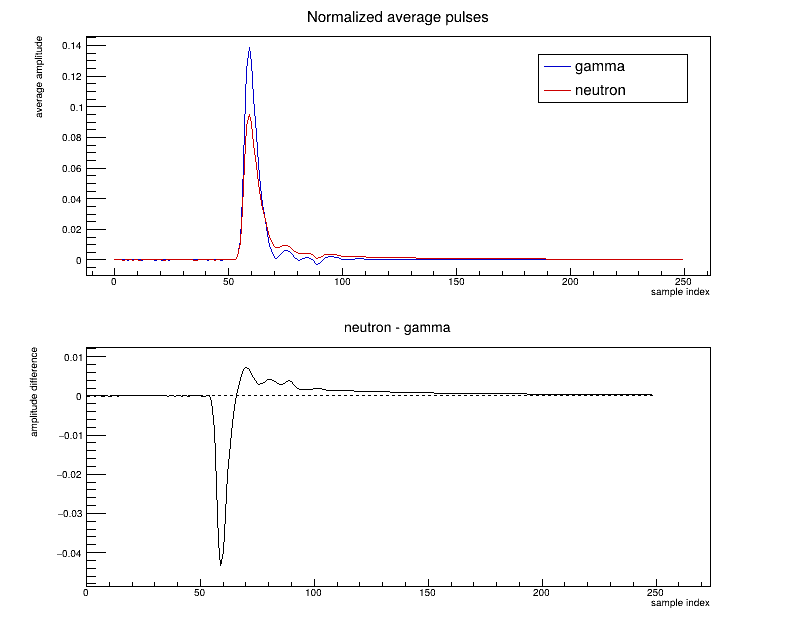
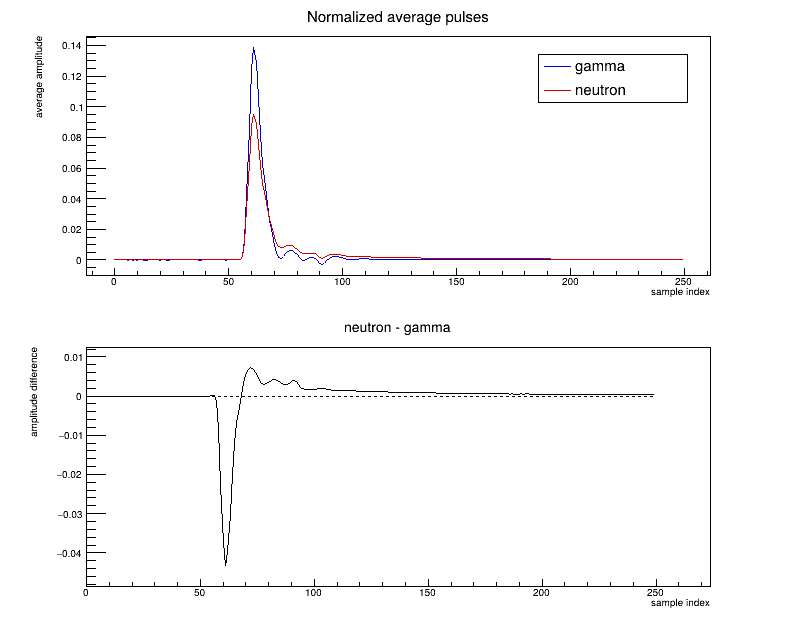
Derive PSD alignment target from reference waveform

diff --git a/chapt5/coursework5.1/5.1_PSD.html b/chapt5/coursework5.1/5.1_PSD.html
@@ -7868,7 +7868,7 @@ document.addEventListener("DOMContentLoaded", function () {
 <p>$$b=\frac{1}{N_b}\sum_{i=0}^{N_b-1}y_i,\qquad y_i'=y_i-b.$$</p>
 <p>同一类脉冲在记录窗口中的触发位置会有少量变化。如果直接使用固定积分门，门的边界会落在脉冲的不同位置，使 $Q_{\rm fast}$ 和 PSD 产生额外展宽。因此应在积分前把波形对齐。</p>
 <p>本数据中的脉冲峰顶尖锐，最大采样点能够稳定地标记脉冲位置，因此这里用 maximum 所在的采样点 $k_{\max}$ 对齐。若峰顶较宽或峰顶噪声明显，maximum 的采样点容易跳动，这种方法便不再可靠；实际分析中应改用前沿的 fast filter 或 constant-fraction 定时。简单的固定阈值 leading-edge 还会随脉冲幅度产生 time walk。</p>
-<p>选择共同位置 $k_0$，并令 $\Delta=k_0-k_{\max}$。对齐后的数组满足</p>
+<p>取第一条波形的 maximum 位置作为参考位置 $k_0$。对其余波形令 $\Delta=k_0-k_{\max}$，对齐后的数组满足</p>
 <p>$$\widetilde y_j=y'_{j-\Delta}.$$</p>
 <p>也就是说，写入输出位置 $j$ 时，应读取原数组位置 $j-\Delta$。时间平移只改变采样值所在的位置；移出记录窗口的点丢弃，空出的点补零。</p>
 <p>对齐后选取 $t_0&lt;t_1&lt;t_2$，定义</p>
@@ -7919,7 +7919,10 @@ document.addEventListener("DOMContentLoaded", function () {
     <span class="n">wave</span><span class="o">.</span><span class="n">GetEntry</span><span class="p">(</span><span class="n">index</span><span class="p">)</span>
     <span class="k">return</span> <span class="p">[</span><span class="nb">float</span><span class="p">(</span><span class="n">wave</span><span class="o">.</span><span class="n">adc</span><span class="p">[</span><span class="n">i</span><span class="p">])</span> <span class="k">for</span> <span class="n">i</span> <span class="ow">in</span> <span class="nb">range</span><span class="p">(</span><span class="n">sample_count</span><span class="p">)]</span>
 
-<span class="nb">print</span><span class="p">(</span><span class="sa">f</span><span class="s2">"</span><span class="si">{</span><span class="n">pulse_count</span><span class="si">}</span><span class="s2"> waveforms, </span><span class="si">{</span><span class="n">sample_count</span><span class="si">}</span><span class="s2"> samples per waveform"</span><span class="p">)</span>
+<span class="n">reference_pulse</span> <span class="o">=</span> <span class="n">read_pulse</span><span class="p">(</span><span class="mi">0</span><span class="p">)</span>
+<span class="n">alignment_target</span> <span class="o">=</span> <span class="nb">max</span><span class="p">(</span><span class="nb">range</span><span class="p">(</span><span class="n">sample_count</span><span class="p">),</span> <span class="n">key</span><span class="o">=</span><span class="n">reference_pulse</span><span class="o">.</span><span class="fm">__getitem__</span><span class="p">)</span>
+<span class="nb">print</span><span class="p">(</span><span class="sa">f</span><span class="s2">"</span><span class="si">{</span><span class="n">pulse_count</span><span class="si">}</span><span class="s2"> waveforms, </span><span class="si">{</span><span class="n">sample_count</span><span class="si">}</span><span class="s2"> samples per waveform; "</span>
+      <span class="sa">f</span><span class="s2">"reference maximum = </span><span class="si">{</span><span class="n">alignment_target</span><span class="si">}</span><span class="s2">"</span><span class="p">)</span>
 </pre></div>
 </div>
 </div>
@@ -7974,8 +7977,13 @@ document.addEventListener("DOMContentLoaded", function () {
 <span class="w">    </span><span class="n">wave</span><span class="o">-&gt;</span><span class="n">GetEntry</span><span class="p">(</span><span class="n">index</span><span class="p">);</span>
 <span class="w">    </span><span class="k">return</span><span class="w"> </span><span class="n">std</span><span class="o">::</span><span class="n">vector</span><span class="o">&lt;</span><span class="kt">double</span><span class="o">&gt;</span><span class="p">(</span><span class="n">adc</span><span class="p">,</span><span class="w"> </span><span class="n">adc</span><span class="w"> </span><span class="o">+</span><span class="w"> </span><span class="n">sampleCount</span><span class="p">);</span>
 <span class="p">};</span>
+<span class="k">auto</span><span class="w"> </span><span class="n">referencePulse</span><span class="w"> </span><span class="o">=</span><span class="w"> </span><span class="n">readPulse</span><span class="p">(</span><span class="mi">0</span><span class="p">);</span>
+<span class="k">const</span><span class="w"> </span><span class="kt">int</span><span class="w"> </span><span class="n">alignmentTarget</span><span class="w"> </span><span class="o">=</span><span class="w"> </span><span class="n">std</span><span class="o">::</span><span class="n">distance</span><span class="p">(</span>
+<span class="w">    </span><span class="n">referencePulse</span><span class="p">.</span><span class="n">begin</span><span class="p">(),</span>
+<span class="w">    </span><span class="n">std</span><span class="o">::</span><span class="n">max_element</span><span class="p">(</span><span class="n">referencePulse</span><span class="p">.</span><span class="n">begin</span><span class="p">(),</span><span class="w"> </span><span class="n">referencePulse</span><span class="p">.</span><span class="n">end</span><span class="p">()));</span>
 <span class="n">std</span><span class="o">::</span><span class="n">cout</span><span class="w"> </span><span class="o">&lt;&lt;</span><span class="w"> </span><span class="n">pulseCount</span><span class="w"> </span><span class="o">&lt;&lt;</span><span class="w"> </span><span class="s">" waveforms, "</span><span class="w"> </span><span class="o">&lt;&lt;</span><span class="w"> </span><span class="n">sampleCount</span>
-<span class="w">          </span><span class="o">&lt;&lt;</span><span class="w"> </span><span class="s">" samples per waveform"</span><span class="w"> </span><span class="o">&lt;&lt;</span><span class="w"> </span><span class="n">std</span><span class="o">::</span><span class="n">endl</span><span class="p">;</span>
+<span class="w">          </span><span class="o">&lt;&lt;</span><span class="w"> </span><span class="s">" samples per waveform; reference maximum = "</span>
+<span class="w">          </span><span class="o">&lt;&lt;</span><span class="w"> </span><span class="n">alignmentTarget</span><span class="w"> </span><span class="o">&lt;&lt;</span><span class="w"> </span><span class="n">std</span><span class="o">::</span><span class="n">endl</span><span class="p">;</span>
 </pre></div>
 </div>
 </div>
@@ -8068,7 +8076,7 @@ document.addEventListener("DOMContentLoaded", function () {
 </div>
 <div class="jp-InputArea jp-Cell-inputArea"><div class="jp-InputPrompt jp-InputArea-prompt">
 </div><div class="jp-RenderedHTMLCommon jp-RenderedMarkdown jp-MarkdownOutput" data-mime-type="text/markdown">
-<h3 id="%E5%9F%BA%E7%BA%BF%E4%BF%AE%E6%AD%A3%E4%B8%8E%E6%97%B6%E9%97%B4%E5%AF%B9%E9%BD%90">基线修正与时间对齐<a class="anchor-link" href="#%E5%9F%BA%E7%BA%BF%E4%BF%AE%E6%AD%A3%E4%B8%8E%E6%97%B6%E9%97%B4%E5%AF%B9%E9%BD%90">¶</a></h3><p>示例使用前 40 个采样点估计基线，并把 pulse maximum 对齐到采样点 59。图中先比较基线修正后但尚未对齐的波形，再显示对齐结果。代码中的 <code>source = output - shift</code> 对应上面的 $j-\Delta$；边界判断检查的也是实际读取的 source。</p>
+<h3 id="%E5%9F%BA%E7%BA%BF%E4%BF%AE%E6%AD%A3%E4%B8%8E%E6%97%B6%E9%97%B4%E5%AF%B9%E9%BD%90">基线修正与时间对齐<a class="anchor-link" href="#%E5%9F%BA%E7%BA%BF%E4%BF%AE%E6%AD%A3%E4%B8%8E%E6%97%B6%E9%97%B4%E5%AF%B9%E9%BD%90">¶</a></h3><p>示例使用前 40 个采样点估计基线，并把每条波形的 pulse maximum 对齐到第一条波形的 maximum 位置。图中先比较基线修正后但尚未对齐的波形，再显示对齐结果。代码中的 <code>source = output - shift</code> 对应上面的 $j-\Delta$；边界判断检查的也是实际读取的 source。</p>
 </div>
 </div>
 </div>
@@ -8080,7 +8088,7 @@ document.addEventListener("DOMContentLoaded", function () {
 <div class="jp-InputArea jp-Cell-inputArea"><div class="jp-InputPrompt jp-InputArea-prompt">
 </div><div class="jp-RenderedHTMLCommon jp-RenderedMarkdown jp-MarkdownOutput" data-mime-type="text/markdown">
 <div class="pyroot-code-marker"></div>
-<div class="highlight"><pre><span></span><span class="k">def</span><span class="w"> </span><span class="nf">process_pulse</span><span class="p">(</span><span class="n">values</span><span class="p">,</span> <span class="n">target</span><span class="o">=</span><span class="mi">59</span><span class="p">,</span> <span class="n">baseline_samples</span><span class="o">=</span><span class="mi">40</span><span class="p">):</span>
+<div class="highlight"><pre><span></span><span class="k">def</span><span class="w"> </span><span class="nf">process_pulse</span><span class="p">(</span><span class="n">values</span><span class="p">,</span> <span class="n">target</span><span class="p">,</span> <span class="n">baseline_samples</span><span class="o">=</span><span class="mi">40</span><span class="p">):</span>
     <span class="n">baseline</span> <span class="o">=</span> <span class="nb">sum</span><span class="p">(</span><span class="n">values</span><span class="p">[:</span><span class="n">baseline_samples</span><span class="p">])</span> <span class="o">/</span> <span class="n">baseline_samples</span>
     <span class="n">corrected</span> <span class="o">=</span> <span class="p">[</span><span class="n">value</span> <span class="o">-</span> <span class="n">baseline</span> <span class="k">for</span> <span class="n">value</span> <span class="ow">in</span> <span class="n">values</span><span class="p">]</span>
     <span class="n">peak_index</span> <span class="o">=</span> <span class="nb">max</span><span class="p">(</span><span class="nb">range</span><span class="p">(</span><span class="nb">len</span><span class="p">(</span><span class="n">corrected</span><span class="p">)),</span> <span class="n">key</span><span class="o">=</span><span class="n">corrected</span><span class="o">.</span><span class="fm">__getitem__</span><span class="p">)</span>
@@ -8092,8 +8100,8 @@ document.addEventListener("DOMContentLoaded", function () {
             <span class="n">aligned</span><span class="p">[</span><span class="n">output</span><span class="p">]</span> <span class="o">=</span> <span class="n">corrected</span><span class="p">[</span><span class="n">source</span><span class="p">]</span>
     <span class="k">return</span> <span class="n">aligned</span><span class="p">,</span> <span class="n">baseline</span><span class="p">,</span> <span class="n">peak_index</span>
 
-<span class="n">pulse20</span><span class="p">,</span> <span class="n">base20</span><span class="p">,</span> <span class="n">peak20</span> <span class="o">=</span> <span class="n">process_pulse</span><span class="p">(</span><span class="n">raw20</span><span class="p">)</span>
-<span class="n">pulse30</span><span class="p">,</span> <span class="n">base30</span><span class="p">,</span> <span class="n">peak30</span> <span class="o">=</span> <span class="n">process_pulse</span><span class="p">(</span><span class="n">raw30</span><span class="p">)</span>
+<span class="n">pulse20</span><span class="p">,</span> <span class="n">base20</span><span class="p">,</span> <span class="n">peak20</span> <span class="o">=</span> <span class="n">process_pulse</span><span class="p">(</span><span class="n">raw20</span><span class="p">,</span> <span class="n">alignment_target</span><span class="p">)</span>
+<span class="n">pulse30</span><span class="p">,</span> <span class="n">base30</span><span class="p">,</span> <span class="n">peak30</span> <span class="o">=</span> <span class="n">process_pulse</span><span class="p">(</span><span class="n">raw30</span><span class="p">,</span> <span class="n">alignment_target</span><span class="p">)</span>
 <span class="n">corrected20</span> <span class="o">=</span> <span class="p">[</span><span class="n">value</span> <span class="o">-</span> <span class="n">base20</span> <span class="k">for</span> <span class="n">value</span> <span class="ow">in</span> <span class="n">raw20</span><span class="p">]</span>
 <span class="n">corrected30</span> <span class="o">=</span> <span class="p">[</span><span class="n">value</span> <span class="o">-</span> <span class="n">base30</span> <span class="k">for</span> <span class="n">value</span> <span class="ow">in</span> <span class="n">raw30</span><span class="p">]</span>
 <span class="n">before20</span> <span class="o">=</span> <span class="n">ROOT</span><span class="o">.</span><span class="n">TGraph</span><span class="p">(</span><span class="n">sample_count</span><span class="p">,</span> <span class="n">samples</span><span class="p">,</span> <span class="n">array</span><span class="p">(</span><span class="s2">"d"</span><span class="p">,</span> <span class="n">corrected20</span><span class="p">))</span>
@@ -8122,12 +8130,15 @@ document.addEventListener("DOMContentLoaded", function () {
 <span class="n">after_graphs</span><span class="o">.</span><span class="n">Add</span><span class="p">(</span><span class="n">after20</span><span class="p">)</span>
 <span class="n">after_graphs</span><span class="o">.</span><span class="n">Add</span><span class="p">(</span><span class="n">after30</span><span class="p">)</span>
 <span class="n">after_graphs</span><span class="o">.</span><span class="n">Draw</span><span class="p">(</span><span class="s2">"AL"</span><span class="p">)</span>
-<span class="n">target_line</span> <span class="o">=</span> <span class="n">ROOT</span><span class="o">.</span><span class="n">TLine</span><span class="p">(</span><span class="mi">59</span><span class="p">,</span> <span class="mi">0</span><span class="p">,</span> <span class="mi">59</span><span class="p">,</span> <span class="mf">1.05</span> <span class="o">*</span> <span class="nb">max</span><span class="p">(</span><span class="nb">max</span><span class="p">(</span><span class="n">pulse20</span><span class="p">),</span> <span class="nb">max</span><span class="p">(</span><span class="n">pulse30</span><span class="p">)))</span>
+<span class="n">target_line</span> <span class="o">=</span> <span class="n">ROOT</span><span class="o">.</span><span class="n">TLine</span><span class="p">(</span><span class="n">alignment_target</span><span class="p">,</span> <span class="mi">0</span><span class="p">,</span> <span class="n">alignment_target</span><span class="p">,</span>
+                         <span class="mf">1.05</span> <span class="o">*</span> <span class="nb">max</span><span class="p">(</span><span class="nb">max</span><span class="p">(</span><span class="n">pulse20</span><span class="p">),</span> <span class="nb">max</span><span class="p">(</span><span class="n">pulse30</span><span class="p">)))</span>
 <span class="n">target_line</span><span class="o">.</span><span class="n">SetLineStyle</span><span class="p">(</span><span class="mi">2</span><span class="p">)</span>
 <span class="n">target_line</span><span class="o">.</span><span class="n">Draw</span><span class="p">()</span>
 <span class="n">target_label</span> <span class="o">=</span> <span class="n">ROOT</span><span class="o">.</span><span class="n">TLatex</span><span class="p">()</span>
 <span class="n">target_label</span><span class="o">.</span><span class="n">SetTextSize</span><span class="p">(</span><span class="mf">0.035</span><span class="p">)</span>
-<span class="n">target_label</span><span class="o">.</span><span class="n">DrawLatex</span><span class="p">(</span><span class="mi">63</span><span class="p">,</span> <span class="mf">0.92</span> <span class="o">*</span> <span class="nb">max</span><span class="p">(</span><span class="nb">max</span><span class="p">(</span><span class="n">pulse20</span><span class="p">),</span> <span class="nb">max</span><span class="p">(</span><span class="n">pulse30</span><span class="p">)),</span> <span class="s2">"k0 = 59"</span><span class="p">)</span>
+<span class="n">target_label</span><span class="o">.</span><span class="n">DrawLatex</span><span class="p">(</span><span class="n">alignment_target</span> <span class="o">+</span> <span class="mi">4</span><span class="p">,</span>
+                       <span class="mf">0.92</span> <span class="o">*</span> <span class="nb">max</span><span class="p">(</span><span class="nb">max</span><span class="p">(</span><span class="n">pulse20</span><span class="p">),</span> <span class="nb">max</span><span class="p">(</span><span class="n">pulse30</span><span class="p">)),</span>
+                       <span class="sa">f</span><span class="s2">"k0 = </span><span class="si">{</span><span class="n">alignment_target</span><span class="si">}</span><span class="s2">"</span><span class="p">)</span>
 <span class="n">c_alignment</span><span class="o">.</span><span class="n">Draw</span><span class="p">()</span>
 <span class="n">c_alignment</span><span class="o">.</span><span class="n">SaveAs</span><span class="p">(</span><span class="s2">"time_alignment.png"</span><span class="p">)</span>
 <span class="nb">print</span><span class="p">(</span><span class="sa">f</span><span class="s2">"baselines = </span><span class="si">{</span><span class="n">base20</span><span class="si">:</span><span class="s2">.2f</span><span class="si">}</span><span class="s2">, </span><span class="si">{</span><span class="n">base30</span><span class="si">:</span><span class="s2">.2f</span><span class="si">}</span><span class="s2">; "</span>
@@ -8150,7 +8161,7 @@ document.addEventListener("DOMContentLoaded", function () {
 <span class="w">    </span><span class="kt">int</span><span class="w"> </span><span class="n">peakIndex</span><span class="p">;</span>
 <span class="p">};</span>
 
-<span class="n">ProcessedPulse</span><span class="w"> </span><span class="nf">processPulse</span><span class="p">(</span><span class="k">const</span><span class="w"> </span><span class="n">std</span><span class="o">::</span><span class="n">vector</span><span class="o">&lt;</span><span class="kt">double</span><span class="o">&gt;&amp;</span><span class="w"> </span><span class="n">values</span><span class="p">,</span><span class="w"> </span><span class="kt">int</span><span class="w"> </span><span class="n">target</span><span class="w"> </span><span class="o">=</span><span class="w"> </span><span class="mi">59</span><span class="p">,</span><span class="w"> </span><span class="kt">int</span><span class="w"> </span><span class="n">baselineSamples</span><span class="w"> </span><span class="o">=</span><span class="w"> </span><span class="mi">40</span><span class="p">)</span><span class="w"> </span><span class="p">{</span>
+<span class="n">ProcessedPulse</span><span class="w"> </span><span class="nf">processPulse</span><span class="p">(</span><span class="k">const</span><span class="w"> </span><span class="n">std</span><span class="o">::</span><span class="n">vector</span><span class="o">&lt;</span><span class="kt">double</span><span class="o">&gt;&amp;</span><span class="w"> </span><span class="n">values</span><span class="p">,</span><span class="w"> </span><span class="kt">int</span><span class="w"> </span><span class="n">target</span><span class="p">,</span><span class="w"> </span><span class="kt">int</span><span class="w"> </span><span class="n">baselineSamples</span><span class="w"> </span><span class="o">=</span><span class="w"> </span><span class="mi">40</span><span class="p">)</span><span class="w"> </span><span class="p">{</span>
 <span class="w">    </span><span class="k">const</span><span class="w"> </span><span class="kt">int</span><span class="w"> </span><span class="n">n</span><span class="w"> </span><span class="o">=</span><span class="w"> </span><span class="n">values</span><span class="p">.</span><span class="n">size</span><span class="p">();</span>
 <span class="w">    </span><span class="n">std</span><span class="o">::</span><span class="n">vector</span><span class="o">&lt;</span><span class="kt">double</span><span class="o">&gt;</span><span class="w"> </span><span class="n">corrected</span><span class="p">(</span><span class="n">n</span><span class="p">);</span>
 <span class="w">    </span><span class="kt">double</span><span class="w"> </span><span class="n">baseline</span><span class="w"> </span><span class="o">=</span><span class="w"> </span><span class="mf">0.0</span><span class="p">;</span>
@@ -8169,8 +8180,8 @@ document.addEventListener("DOMContentLoaded", function () {
 <span class="w">    </span><span class="k">return</span><span class="w"> </span><span class="p">{</span><span class="n">aligned</span><span class="p">,</span><span class="w"> </span><span class="n">baseline</span><span class="p">,</span><span class="w"> </span><span class="n">peakIndex</span><span class="p">};</span>
 <span class="p">}</span>
 
-<span class="k">auto</span><span class="w"> </span><span class="n">pulse20</span><span class="w"> </span><span class="o">=</span><span class="w"> </span><span class="n">processPulse</span><span class="p">(</span><span class="n">raw20</span><span class="p">);</span>
-<span class="k">auto</span><span class="w"> </span><span class="n">pulse30</span><span class="w"> </span><span class="o">=</span><span class="w"> </span><span class="n">processPulse</span><span class="p">(</span><span class="n">raw30</span><span class="p">);</span>
+<span class="k">auto</span><span class="w"> </span><span class="n">pulse20</span><span class="w"> </span><span class="o">=</span><span class="w"> </span><span class="n">processPulse</span><span class="p">(</span><span class="n">raw20</span><span class="p">,</span><span class="w"> </span><span class="n">alignmentTarget</span><span class="p">);</span>
+<span class="k">auto</span><span class="w"> </span><span class="n">pulse30</span><span class="w"> </span><span class="o">=</span><span class="w"> </span><span class="n">processPulse</span><span class="p">(</span><span class="n">raw30</span><span class="p">,</span><span class="w"> </span><span class="n">alignmentTarget</span><span class="p">);</span>
 <span class="n">std</span><span class="o">::</span><span class="n">vector</span><span class="o">&lt;</span><span class="kt">double</span><span class="o">&gt;</span><span class="w"> </span><span class="n">corrected20</span><span class="p">(</span><span class="n">sampleCount</span><span class="p">);</span>
 <span class="n">std</span><span class="o">::</span><span class="n">vector</span><span class="o">&lt;</span><span class="kt">double</span><span class="o">&gt;</span><span class="w"> </span><span class="n">corrected30</span><span class="p">(</span><span class="n">sampleCount</span><span class="p">);</span>
 <span class="k">for</span><span class="w"> </span><span class="p">(</span><span class="kt">int</span><span class="w"> </span><span class="n">i</span><span class="w"> </span><span class="o">=</span><span class="w"> </span><span class="mi">0</span><span class="p">;</span><span class="w"> </span><span class="n">i</span><span class="w"> </span><span class="o">&lt;</span><span class="w"> </span><span class="n">sampleCount</span><span class="p">;</span><span class="w"> </span><span class="o">++</span><span class="n">i</span><span class="p">)</span><span class="w"> </span><span class="p">{</span>
@@ -8205,12 +8216,15 @@ document.addEventListener("DOMContentLoaded", function () {
 <span class="k">const</span><span class="w"> </span><span class="kt">double</span><span class="w"> </span><span class="n">alignedMaximum</span><span class="w"> </span><span class="o">=</span><span class="w"> </span><span class="n">std</span><span class="o">::</span><span class="n">max</span><span class="p">(</span>
 <span class="w">    </span><span class="o">*</span><span class="n">std</span><span class="o">::</span><span class="n">max_element</span><span class="p">(</span><span class="n">pulse20</span><span class="p">.</span><span class="n">values</span><span class="p">.</span><span class="n">begin</span><span class="p">(),</span><span class="w"> </span><span class="n">pulse20</span><span class="p">.</span><span class="n">values</span><span class="p">.</span><span class="n">end</span><span class="p">()),</span>
 <span class="w">    </span><span class="o">*</span><span class="n">std</span><span class="o">::</span><span class="n">max_element</span><span class="p">(</span><span class="n">pulse30</span><span class="p">.</span><span class="n">values</span><span class="p">.</span><span class="n">begin</span><span class="p">(),</span><span class="w"> </span><span class="n">pulse30</span><span class="p">.</span><span class="n">values</span><span class="p">.</span><span class="n">end</span><span class="p">()));</span>
-<span class="k">auto</span><span class="w"> </span><span class="n">targetLine</span><span class="w"> </span><span class="o">=</span><span class="w"> </span><span class="k">new</span><span class="w"> </span><span class="n">TLine</span><span class="p">(</span><span class="mi">59</span><span class="p">,</span><span class="w"> </span><span class="mi">0</span><span class="p">,</span><span class="w"> </span><span class="mi">59</span><span class="p">,</span><span class="w"> </span><span class="mf">1.05</span><span class="w"> </span><span class="o">*</span><span class="w"> </span><span class="n">alignedMaximum</span><span class="p">);</span>
+<span class="k">auto</span><span class="w"> </span><span class="n">targetLine</span><span class="w"> </span><span class="o">=</span><span class="w"> </span><span class="k">new</span><span class="w"> </span><span class="n">TLine</span><span class="p">(</span>
+<span class="w">    </span><span class="n">alignmentTarget</span><span class="p">,</span><span class="w"> </span><span class="mi">0</span><span class="p">,</span><span class="w"> </span><span class="n">alignmentTarget</span><span class="p">,</span><span class="w"> </span><span class="mf">1.05</span><span class="w"> </span><span class="o">*</span><span class="w"> </span><span class="n">alignedMaximum</span><span class="p">);</span>
 <span class="n">targetLine</span><span class="o">-&gt;</span><span class="n">SetLineStyle</span><span class="p">(</span><span class="mi">2</span><span class="p">);</span>
 <span class="n">targetLine</span><span class="o">-&gt;</span><span class="n">Draw</span><span class="p">();</span>
 <span class="k">auto</span><span class="w"> </span><span class="n">targetLabel</span><span class="w"> </span><span class="o">=</span><span class="w"> </span><span class="k">new</span><span class="w"> </span><span class="n">TLatex</span><span class="p">();</span>
 <span class="n">targetLabel</span><span class="o">-&gt;</span><span class="n">SetTextSize</span><span class="p">(</span><span class="mf">0.035</span><span class="p">);</span>
-<span class="n">targetLabel</span><span class="o">-&gt;</span><span class="n">DrawLatex</span><span class="p">(</span><span class="mi">63</span><span class="p">,</span><span class="w"> </span><span class="mf">0.92</span><span class="w"> </span><span class="o">*</span><span class="w"> </span><span class="n">alignedMaximum</span><span class="p">,</span><span class="w"> </span><span class="s">"k0 = 59"</span><span class="p">);</span>
+<span class="n">targetLabel</span><span class="o">-&gt;</span><span class="n">DrawLatex</span><span class="p">(</span>
+<span class="w">    </span><span class="n">alignmentTarget</span><span class="w"> </span><span class="o">+</span><span class="w"> </span><span class="mi">4</span><span class="p">,</span><span class="w"> </span><span class="mf">0.92</span><span class="w"> </span><span class="o">*</span><span class="w"> </span><span class="n">alignedMaximum</span><span class="p">,</span>
+<span class="w">    </span><span class="n">Form</span><span class="p">(</span><span class="s">"k0 = %d"</span><span class="p">,</span><span class="w"> </span><span class="n">alignmentTarget</span><span class="p">));</span>
 <span class="n">cAlignment</span><span class="o">-&gt;</span><span class="n">Draw</span><span class="p">();</span>
 <span class="n">cAlignment</span><span class="o">-&gt;</span><span class="n">SaveAs</span><span class="p">(</span><span class="s">"time_alignment.png"</span><span class="p">);</span>
 <span class="n">std</span><span class="o">::</span><span class="n">cout</span><span class="w"> </span><span class="o">&lt;&lt;</span><span class="w"> </span><span class="n">std</span><span class="o">::</span><span class="n">fixed</span><span class="w"> </span><span class="o">&lt;&lt;</span><span class="w"> </span><span class="n">std</span><span class="o">::</span><span class="n">setprecision</span><span class="p">(</span><span class="mi">2</span><span class="p">)</span>
@@ -8230,7 +8244,7 @@ document.addEventListener("DOMContentLoaded", function () {
 <div class="jp-InputArea jp-Cell-inputArea"><div class="jp-InputPrompt jp-InputArea-prompt">
 </div><div class="jp-RenderedHTMLCommon jp-RenderedMarkdown jp-MarkdownOutput" data-mime-type="text/markdown">
 <p><img alt="waveforms before and after time alignment" src="time_alignment.png" style="max-width:76%;"/></p>
-<p>左图中两条波形的尖锐峰顶分别位于不同采样点；右图中两者都位于 $k_0=59$。这样，同一组积分门相对于每条脉冲具有相同位置。</p>
+<p>左图中两条波形的尖锐峰顶分别位于不同采样点；右图中两者都位于第一条波形给出的参考位置 $k_0=61$。这样，同一组积分门相对于每条脉冲具有相同位置。</p>
 </div>
 </div>
 </div>
@@ -8355,7 +8369,7 @@ document.addEventListener("DOMContentLoaded", function () {
 <div class="highlight"><pre><span></span><span class="n">aligned_pulses</span> <span class="o">=</span> <span class="p">[]</span>
 <span class="n">unusual_maxima</span> <span class="o">=</span> <span class="mi">0</span>
 <span class="k">for</span> <span class="n">index</span> <span class="ow">in</span> <span class="nb">range</span><span class="p">(</span><span class="n">pulse_count</span><span class="p">):</span>
-    <span class="n">values</span><span class="p">,</span> <span class="n">_</span><span class="p">,</span> <span class="n">peak_index</span> <span class="o">=</span> <span class="n">process_pulse</span><span class="p">(</span><span class="n">read_pulse</span><span class="p">(</span><span class="n">index</span><span class="p">))</span>
+    <span class="n">values</span><span class="p">,</span> <span class="n">_</span><span class="p">,</span> <span class="n">peak_index</span> <span class="o">=</span> <span class="n">process_pulse</span><span class="p">(</span><span class="n">read_pulse</span><span class="p">(</span><span class="n">index</span><span class="p">),</span> <span class="n">alignment_target</span><span class="p">)</span>
     <span class="n">aligned_pulses</span><span class="o">.</span><span class="n">append</span><span class="p">(</span><span class="n">values</span><span class="p">)</span>
     <span class="k">if</span> <span class="ow">not</span> <span class="mi">50</span> <span class="o">&lt;=</span> <span class="n">peak_index</span> <span class="o">&lt;=</span> <span class="mi">70</span><span class="p">:</span>
         <span class="n">unusual_maxima</span> <span class="o">+=</span> <span class="mi">1</span>
@@ -8377,7 +8391,7 @@ document.addEventListener("DOMContentLoaded", function () {
 <span class="n">alignedPulses</span><span class="p">.</span><span class="n">reserve</span><span class="p">(</span><span class="n">pulseCount</span><span class="p">);</span>
 <span class="kt">int</span><span class="w"> </span><span class="n">unusualMaxima</span><span class="w"> </span><span class="o">=</span><span class="w"> </span><span class="mi">0</span><span class="p">;</span>
 <span class="k">for</span><span class="w"> </span><span class="p">(</span><span class="kt">int</span><span class="w"> </span><span class="n">index</span><span class="w"> </span><span class="o">=</span><span class="w"> </span><span class="mi">0</span><span class="p">;</span><span class="w"> </span><span class="n">index</span><span class="w"> </span><span class="o">&lt;</span><span class="w"> </span><span class="n">pulseCount</span><span class="p">;</span><span class="w"> </span><span class="o">++</span><span class="n">index</span><span class="p">)</span><span class="w"> </span><span class="p">{</span>
-<span class="w">    </span><span class="k">auto</span><span class="w"> </span><span class="n">pulse</span><span class="w"> </span><span class="o">=</span><span class="w"> </span><span class="n">processPulse</span><span class="p">(</span><span class="n">readPulse</span><span class="p">(</span><span class="n">index</span><span class="p">));</span>
+<span class="w">    </span><span class="k">auto</span><span class="w"> </span><span class="n">pulse</span><span class="w"> </span><span class="o">=</span><span class="w"> </span><span class="n">processPulse</span><span class="p">(</span><span class="n">readPulse</span><span class="p">(</span><span class="n">index</span><span class="p">),</span><span class="w"> </span><span class="n">alignmentTarget</span><span class="p">);</span>
 <span class="w">    </span><span class="n">alignedPulses</span><span class="p">.</span><span class="n">push_back</span><span class="p">(</span><span class="n">std</span><span class="o">::</span><span class="n">move</span><span class="p">(</span><span class="n">pulse</span><span class="p">.</span><span class="n">values</span><span class="p">));</span>
 <span class="w">    </span><span class="k">if</span><span class="w"> </span><span class="p">(</span><span class="n">pulse</span><span class="p">.</span><span class="n">peakIndex</span><span class="w"> </span><span class="o">&lt;</span><span class="w"> </span><span class="mi">50</span><span class="w"> </span><span class="o">||</span><span class="w"> </span><span class="n">pulse</span><span class="p">.</span><span class="n">peakIndex</span><span class="w"> </span><span class="o">&gt;</span><span class="w"> </span><span class="mi">70</span><span class="p">)</span><span class="w"> </span><span class="o">++</span><span class="n">unusualMaxima</span><span class="p">;</span>
 <span class="p">}</span>
@@ -8664,7 +8678,7 @@ document.addEventListener("DOMContentLoaded", function () {
 <img alt="selected Q total interval" src="fom_region.png" style="width:47%;"/>
 <img alt="PSD projection and Gaussian fits" src="fom_projection.png" style="width:47%;"/>
 </div>
-<p>该示例得到 $FoM\approx3.04$。这个数值只对应所选 $Q_{\rm total}$ 区间和积分门；不能直接当作整个二维分布的单一性能指标。</p>
+<p>该示例得到 $FoM\approx2.98$。这个数值只对应所选 $Q_{\rm total}$ 区间和积分门；不能直接当作整个二维分布的单一性能指标。</p>
 </div>
 </div>
 </div>
